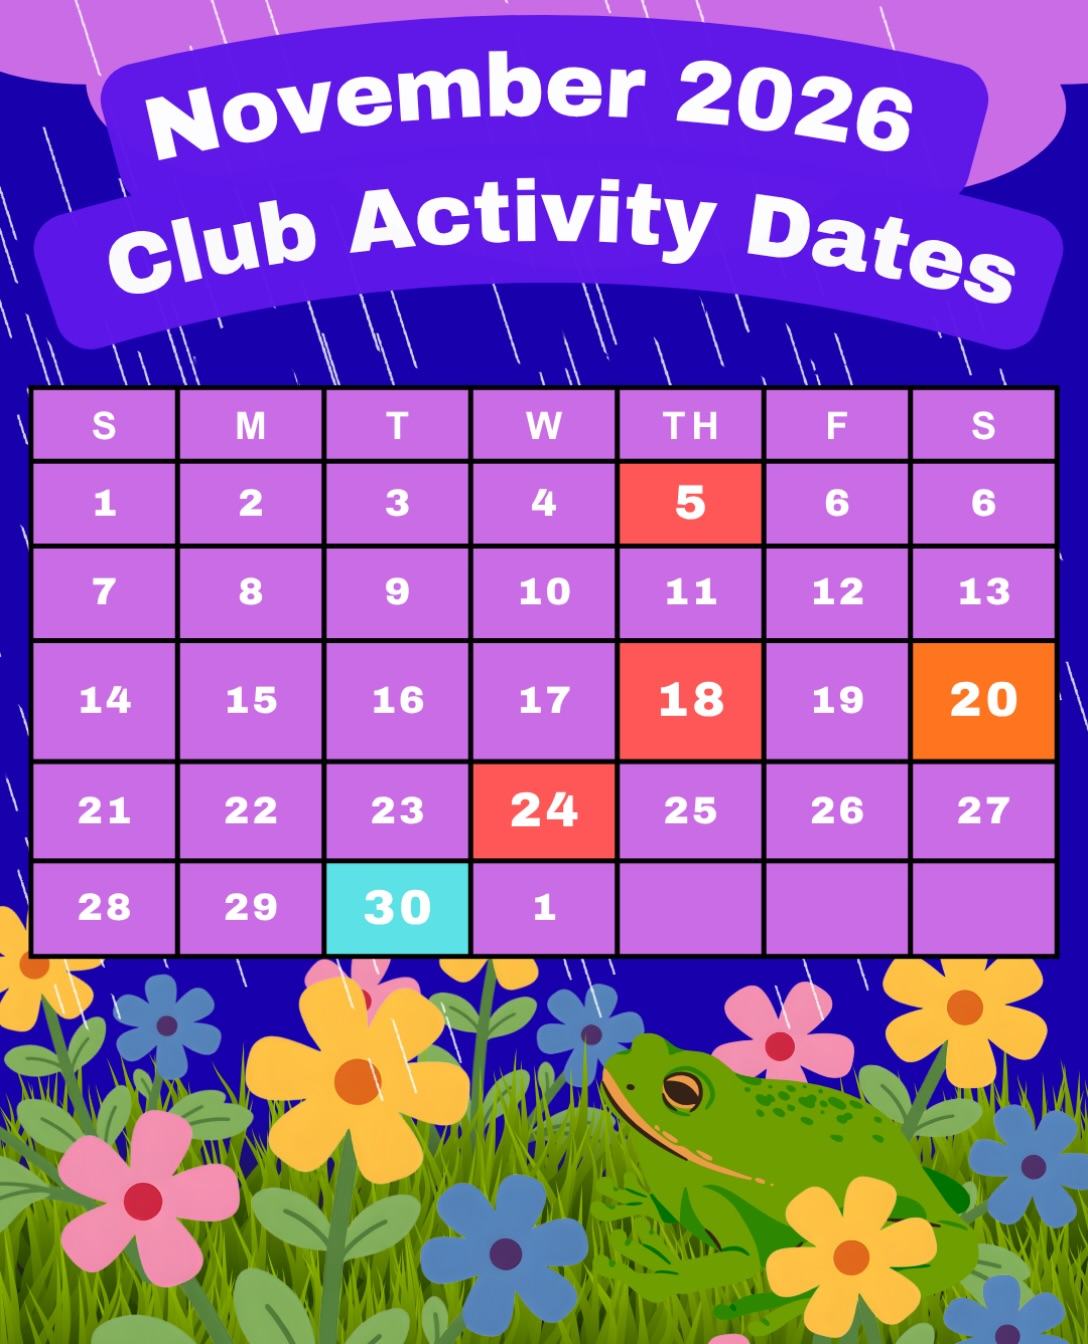
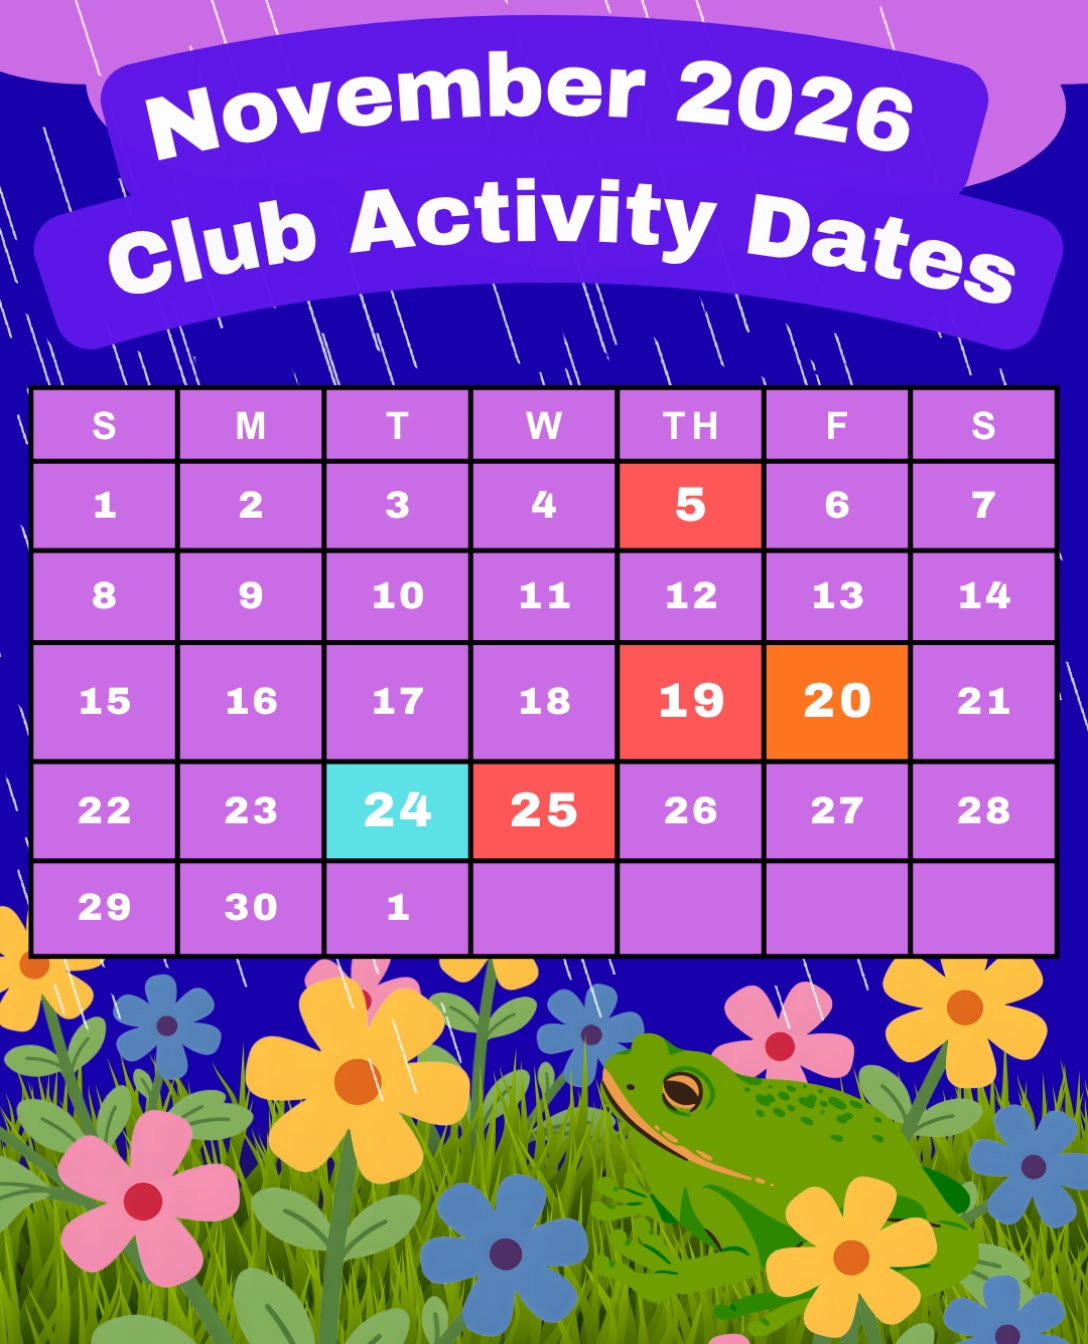
content: add November events from club Instagram posts
Publish the U of A bake sale and Tumbler Ridge trivia, and match the Saskatchewan November calendar to the new poster.

diff --git a/src/content/events/2026-11-21-trm-trivia-saurus.md b/src/content/events/2026-11-21-trm-trivia-saurus.md
@@ -1,0 +1,25 @@
+---
+title: 'Trivia-saurus at Tumbler Ridge Museum'
+start: '2026-11-21T13:00:00-06:00'
+end: '2026-11-21T14:30:00-06:00'
+type: 'External'
+host: 'Tumbler Ridge Museum'
+location: 'Tumbler Ridge Museum, Tumbler Ridge, BC'
+image:
+    src: '/events/2026/external/trm-trivia-saurus.jpg'
+    alt: 'Trivia-saurus poster with a parasaurolophus and four rounds of dinosaur trivia at the Tumbler Ridge Museum'
+detailsLink: 'https://www.trmf.ca/events'
+---
+
+Join the Tumbler Ridge Museum for four rounds of dinosaur trivia. Come with a team. Free to play.
+
+- Dinos Big and Small
+- Once Upon a Time
+- Human meets Dinosaur
+- Dinos on Screen
+
+**When:** Saturday, November 21, 2026, 1:00 PM – 2:30 PM  
+**Where:** Tumbler Ridge Museum, Tumbler Ridge, BC  
+**Cost:** Free to play
+
+For other museum programs, visit the [Tumbler Ridge Museum Foundation](https://www.trmf.ca/events).

diff --git a/src/content/events/2026-11-19-usask-fossil-prep.md b/src/content/events/2026-11-19-usask-fossil-prep.md
@@ -1,14 +1,14 @@
 ---
 title: 'Fossil Prep'
-startDate: '2026-11-18'
+startDate: '2026-11-19'
 type: 'External'
 host: 'University of Saskatchewan Palaeobiology Club'
 image:
     src: '/events/2026/external/usask-november-2026-club-dates.jpg'
-    alt: 'November 2026 club activity calendar for the University of Saskatchewan Palaeobiology Society'
-detailsLink: 'https://www.instagram.com/p/DfaVZ4EhOS2/'
+    alt: 'November 2026 club activity calendar for the University of Saskatchewan Palaeobiology Club'
+detailsLink: 'https://www.instagram.com/p/Df5KsxrT5hK/'
 ---
 
 Fossil preparation session with the University of Saskatchewan Palaeobiology Club.
 
-**When:** Wednesday, November 18, 2026
+**When:** Thursday, November 19, 2026

diff --git a/src/content/events/2026-11-19-uofaps-bake-sale.md b/src/content/events/2026-11-19-uofaps-bake-sale.md
@@ -1,0 +1,17 @@
+---
+title: 'Bake Sale'
+start: '2026-11-19T09:00:00-06:00'
+end: '2026-11-19T16:00:00-06:00'
+type: 'External'
+host: 'University of Alberta Palaeontological Society'
+location: 'CCIS, University of Alberta, Edmonton, AB'
+image:
+    src: '/events/2026/external/uofaps-bake-sale.jpg'
+    alt: 'U of A Palaeontological Society bake sale poster with a dinosaur skeleton in a chef hat, cookies, and brownies'
+detailsLink: 'https://www.instagram.com/p/Df2LIGqMNmr/'
+---
+
+Stop by the University of Alberta Palaeontological Society stand for palaeo-themed snacks. New stickers will be for sale too.
+
+**When:** Thursday, November 19, 2026, 9:00 AM – 4:00 PM  
+**Location:** CCIS, University of Alberta, Edmonton, AB

diff --git a/src/content/events/2026-11-25-usask-fossil-prep.md b/src/content/events/2026-11-25-usask-fossil-prep.md
@@ -1,14 +1,14 @@
 ---
 title: 'Fossil Prep'
-startDate: '2026-11-24'
+startDate: '2026-11-25'
 type: 'External'
 host: 'University of Saskatchewan Palaeobiology Club'
 image:
     src: '/events/2026/external/usask-november-2026-club-dates.jpg'
-    alt: 'November 2026 club activity calendar for the University of Saskatchewan Palaeobiology Society'
-detailsLink: 'https://www.instagram.com/p/DfaVZ4EhOS2/'
+    alt: 'November 2026 club activity calendar for the University of Saskatchewan Palaeobiology Club'
+detailsLink: 'https://www.instagram.com/p/Df5KsxrT5hK/'
 ---
 
 Fossil preparation session with the University of Saskatchewan Palaeobiology Club.
 
-**When:** Tuesday, November 24, 2026
+**When:** Wednesday, November 25, 2026

diff --git a/src/content/events/2026-11-24-usask-general-meeting.md b/src/content/events/2026-11-24-usask-general-meeting.md
@@ -1,14 +1,14 @@
 ---
 title: 'General Meeting'
-startDate: '2026-11-30'
+startDate: '2026-11-24'
 type: 'External'
 host: 'University of Saskatchewan Palaeobiology Club'
 image:
     src: '/events/2026/external/usask-november-2026-club-dates.jpg'
-    alt: 'November 2026 club activity calendar for the University of Saskatchewan Palaeobiology Society'
-detailsLink: 'https://www.instagram.com/p/DfaVZ4EhOS2/'
+    alt: 'November 2026 club activity calendar for the University of Saskatchewan Palaeobiology Club'
+detailsLink: 'https://www.instagram.com/p/Df5KsxrT5hK/'
 ---
 
 General meeting of the University of Saskatchewan Palaeobiology Club.
 
-**When:** Monday, November 30, 2026
+**When:** Tuesday, November 24, 2026

diff --git a/src/content/events/2026-11-05-usask-fossil-prep.md b/src/content/events/2026-11-05-usask-fossil-prep.md
@@ -5,8 +5,8 @@ type: 'External'
 host: 'University of Saskatchewan Palaeobiology Club'
 image:
     src: '/events/2026/external/usask-november-2026-club-dates.jpg'
-    alt: 'November 2026 club activity calendar for the University of Saskatchewan Palaeobiology Society'
-detailsLink: 'https://www.instagram.com/p/DfaVZ4EhOS2/'
+    alt: 'November 2026 club activity calendar for the University of Saskatchewan Palaeobiology Club'
+detailsLink: 'https://www.instagram.com/p/Df5KsxrT5hK/'
 ---
 
 Fossil preparation session with the University of Saskatchewan Palaeobiology Club.
